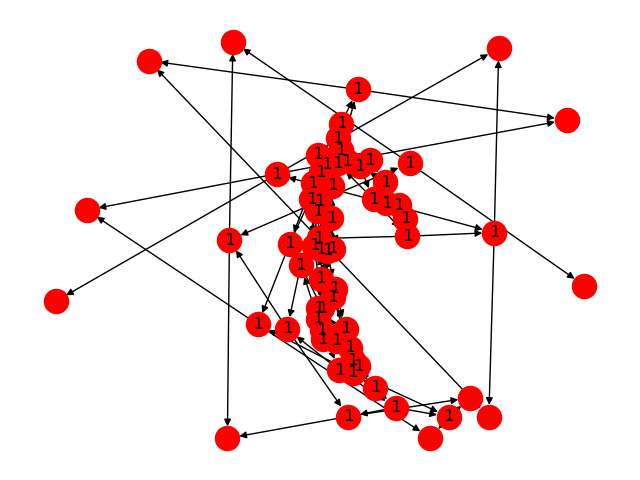
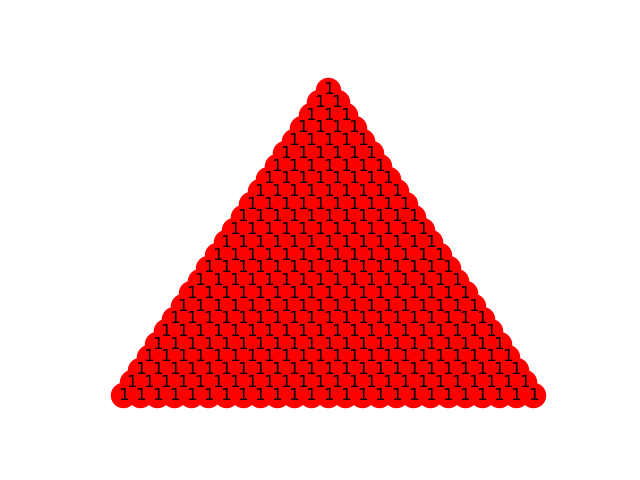
First successful triangle graph

diff --git a/Pascal's Triangle/PythonPascalsTriangle/src/PascalTreeIterator.py b/Pascal's Triangle/PythonPascalsTriangle/src/PascalTreeIterator.py
@@ -1,7 +1,9 @@
 class PascalTreeIterator:
+    rootNode = None
     currentNode = None
     currentRow = 0
     def __init__(self, tree):
+        self.rootNode = tree.getRootNode()
         self.currentNode = tree.getRootNode()
         
     def orderedNextNode(self):
@@ -20,6 +22,7 @@ class PascalTreeIterator:
         else:
             self.moveRight()
     
+    
     def moveLeft(self):
         #Will do nothing if it can't move any further along the row.
         if self.currentNode.get_previous_left() != None and self.currentNode.get_next_left() != None:
@@ -30,12 +33,24 @@ class PascalTreeIterator:
         if self.currentNode.get_previous_right() != None and self.currentNode.get_next_right() != None:
             self.currentNode = self.currentNode.get_previous_right()
             self.currentNode = self.currentNode.get_next_left()
-            
+    
+    def hasNextRowLeft(self):
+        if self.currentNode.get_next_left() != None:
+            return True
+        
+        return False
+    def hasNextRowRight(self):
+        if self.currentNode.get_next_right() != None:
+            return True
+        
+        return False
     def nextRowLeft(self):
-        self.currentNode = self.currentNode.get_next_left()
+        if self.hasNextRowLeft():
+            self.currentNode = self.currentNode.get_next_left()
     
     def nextRowRight(self):
-        self.currentNode = self.currentNode.get_next_right()
+        if self.hasNextRowRight():
+            self.currentNode = self.currentNode.get_next_right()
         
     def getCurrentNode(self):
         return self.currentNode
@@ -47,3 +62,5 @@ class PascalTreeIterator:
             return False
         else:
             return True
+    def goToRoot(self):
+        self.currentNode = self.rootNode

diff --git a/Pascal's Triangle/PythonPascalsTriangle/src/GraphGenerator.py b/Pascal's Triangle/PythonPascalsTriangle/src/GraphGenerator.py
@@ -23,34 +23,40 @@ class GraphGenerator:
     
     def generateNodes(self, tree):
         self.G.add_nodes_from(range(tree.getNodeCount()))
+        print(self.G.nodes)
     
     def generateEdges(self, tree):
         currentNode = 0
         currentRow = 1
-        for i in range(tree.getRowCount()):
-            for __ in range(i):
+        for i in range(tree.getRowCount() - 1):
+            for j in range(i):
                 self.G.add_edges_from([(currentNode, currentNode + i), (currentNode, currentNode + i + 1)])
                 currentNode = currentNode + 1
-    
     def generateNodeLabels(self, tree):
         for i in range(tree.getNodeCount()):
             labelString = str(self.iterator.getCurrentNode().get_value())
             self.labels[i] = labelString
             self.iterator.orderedNextNode()
-    
+        print(self.labels)
     def getLabels(self):
         return self.labels
     
     def generatePos(self, tree):
+        scaleFactor = tree.getNodeCount()
         currentNode = 0
+        currentRowCount = 1
+        baseX = 0
         currentX = 0
         currentY = 0
         for i in range(tree.getRowCount()):
-            for __ in range(i):
+            currentX = baseX
+            for j in range(i):
                 self.pos[currentNode] = (currentX, currentY)
                 currentNode = currentNode + 1
-                currentX = currentX - 1
-                currentY = currentY - 1
-                
+                currentX = currentX + 10
+            currentY = currentY - 5
+            baseX = baseX - 5 
+        print(self.pos)
+        
     def getPos(self):
         return self.pos

diff --git a/Pascal's Triangle/PythonPascalsTriangle/src/Start.py b/Pascal's Triangle/PythonPascalsTriangle/src/Start.py
@@ -3,17 +3,18 @@ from GraphGenerator import GraphGenerator
 import networkx as nx
 import matplotlib.pyplot as plt
 
-tree = PascalTree(10)		
+tree = PascalTree(25)		
 #At this point, the outerlying labels have been established.
 generator = GraphGenerator(tree)
 
 # 
-nx.draw(generator.getGraph(), generator.getPos(), labels=generator.getLabels(), with_labels=True)
+nx.draw_networkx(generator.getGraph(), generator.getPos(), labels=generator.getLabels(), with_labels=True)
 plt.axis('off') #Required to remove axis, don't know why savefig doesn't do it.
 plt.savefig("path.png", axis=False)
 tree.printTree()
 print("Complete")
 
 
-#Current issue - Node has no position. Likely either due to the node creation process (May be creating too many, but unlikely)
-# or it is in relation to how the positions themselves are assigned.
+#Current issues:
+#Node has no position - Node count is going to 65?
+#Labels aren't generating properly (all 1s)
